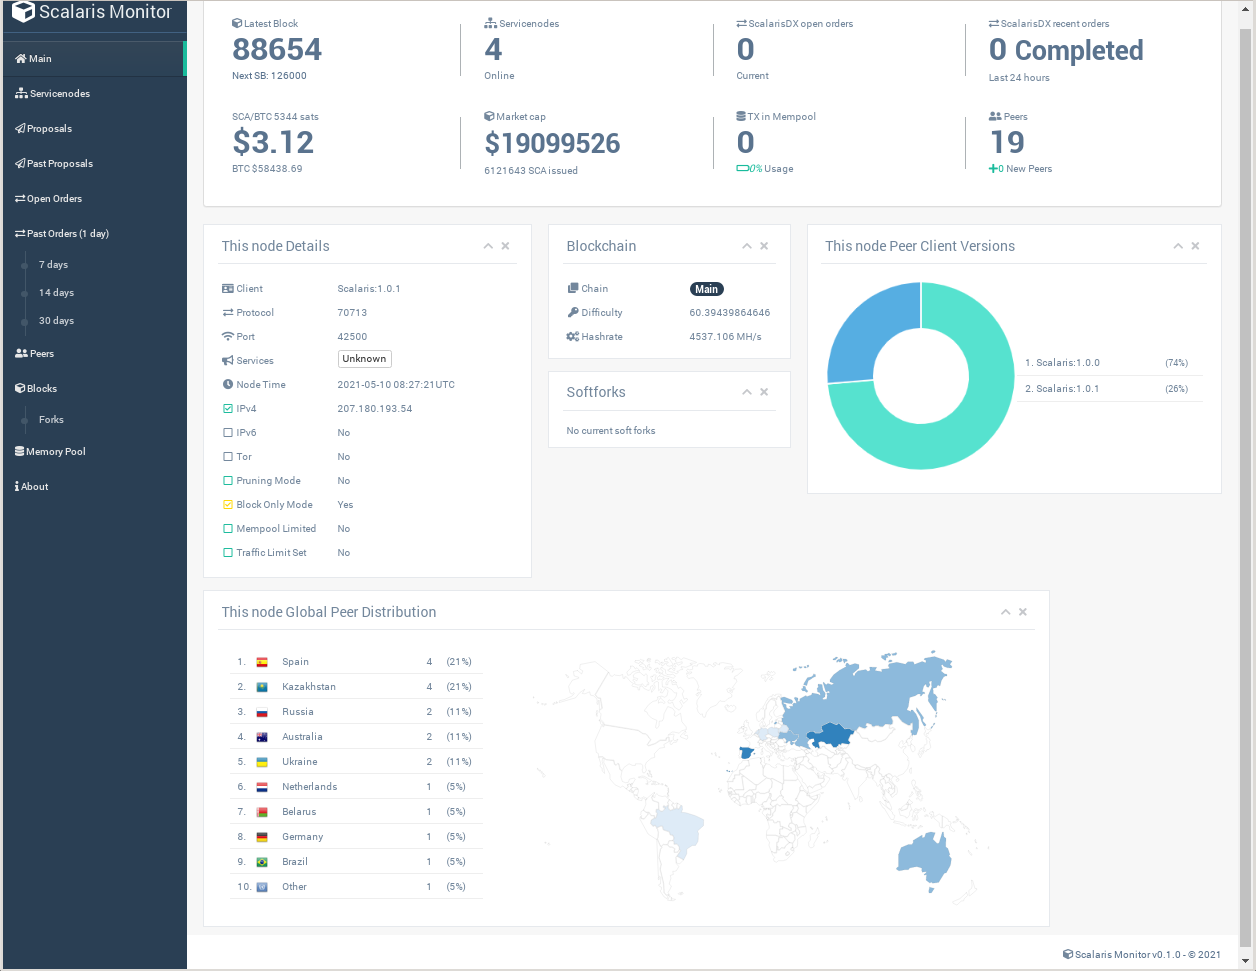
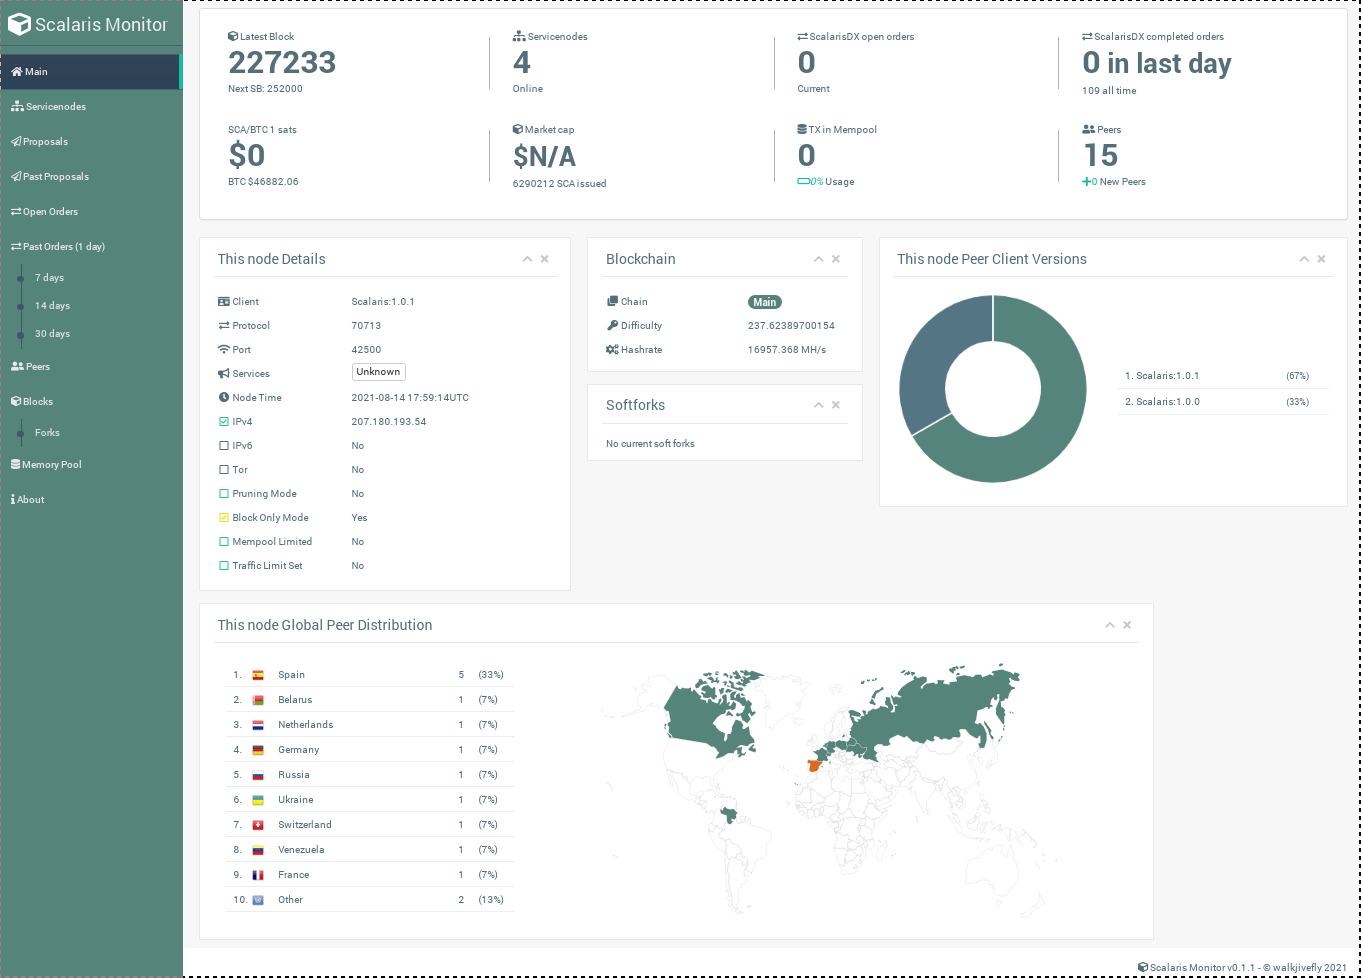
v0.1.1

diff --git a/assets/css/custom.css b/assets/css/custom.css
@@ -91,7 +91,7 @@
 
 @charset "UTF-8";
 .left_col {
-  background: #54847a; }
+  background: #54977A; }
 
 .nav-sm .container.body .col-md-3.left_col {
   min-height: 100%;
@@ -296,7 +296,7 @@ body .container.body .right_col {
 .nav_title {
   width: 230px;
   float: left;
-  background: #54847a;
+  background: #54977A;
   border-radius: 0;
   height: 57px; }
 
@@ -421,7 +421,7 @@ body .container.body .right_col {
 
 body {
   color: #546F7A;
-  background: #54847a;
+  background: #54977A;
   font-family: "Helvetica Neue", Roboto, Arial, "Droid Sans", sans-serif;
   font-size: 13px;
   font-weight: 400;
@@ -487,7 +487,7 @@ table.mempooltable td {
 }
   
 .badge{
-    background-color: #54847a;}
+    background-color: #54977A;}
 
 .dataTables_exportbtn{
      float: right; 
@@ -496,8 +496,8 @@ table.mempooltable td {
 
 .btn-export{
     color: #fff;
-    background-color: #54847a;
-    border-color: #54847a;
+    background-color: #54977A;
+    border-color: #54977A;
 }   
 .modal-ms {
     width: 550px;
@@ -694,7 +694,7 @@ a:hover, a:focus {
 .nav.side-menu > a:hover {
   border-right: 5px solid #1ABB9C;
   text-shadow: rgba(0, 0, 0, 0.25) 0 -1px 0;
-  background: linear-gradient(#334556, #2C4257), #54847a;
+  background: linear-gradient(#334556, #2C4257), #54977A;
   box-shadow: rgba(0, 0, 0, 0.25) 0 1px 0, inset rgba(255, 255, 255, 0.16) 0 1px 0; }    
 }
 
@@ -710,7 +710,7 @@ a:hover, a:focus {
 .nav.side-menu > a.active {
   border-right: 5px solid #1ABB9C; 
   text-shadow: rgba(0, 0, 0, 0.25) 0 -1px 0;
-  background: linear-gradient(#334556, #2C4257), #54847a;
+  background: linear-gradient(#334556, #2C4257), #54977A;
   box-shadow: rgba(0, 0, 0, 0.25) 0 1px 0, inset rgba(255, 255, 255, 0.16) 0 1px 0; }
   
   
@@ -725,7 +725,7 @@ a:hover, a:focus {
 
 .nav.side-menu > li.active > a {
   text-shadow: rgba(0, 0, 0, 0.25) 0 -1px 0;
-  background: linear-gradient(#334556, #2C4257), #54847a;
+  background: linear-gradient(#334556, #2C4257), #54977A;
   box-shadow: rgba(0, 0, 0, 0.25) 0 1px 0, inset rgba(255, 255, 255, 0.16) 0 1px 0; }
 
 .navbar-brand, .navbar-nav > li > a {
@@ -1590,7 +1590,7 @@ span.right {
   padding: 5px 0 0 0;
   position: fixed;
   width: 230px;
-  background: #54847a; }
+  background: #54977A; }
 
 .sidebar-footer a {
   padding: 7px 0 3px;

diff --git a/README.md b/README.md
@@ -1,4 +1,4 @@
-# Scalaris Monitor v0.1.0
+# Scalaris Monitor v0.1.1
 
 Scalaris Monitor (SPM) is a visualisation and monitoring system for the Scalaris network.
 ![](assets/images/scalarismonitor.png)
@@ -23,8 +23,9 @@ Scalaris Monitor (SPM) is a visualisation and monitoring system for the Scalaris
 * Scalaris v1.0.0+
 * Web server (e.g. Apache, PHP built-in web server)
 * PHP 7.0.0+
-*   php-cli php-common php-curl php-fpm php-json php-mbstring php-opcache php-readline
+*   php-cli php-common php-curl php-fpm php-json php-mbstring php-opcache php-readline php-sqlite3
 * cURL
+* SQLite3
 
 
 ## Installation

diff --git a/CHANGELOG.md b/CHANGELOG.md
@@ -1,4 +1,8 @@
 Scalaris Monitor Changelog
 ================================
 
+## 0.1.1 - 2021-08-14 
+* Use SQLite3 for past orders
+* Updated colour scheme
+
 ## 0.1.0 - 2021-05-08 Created from 0.1.1 Blocknet Monitor
